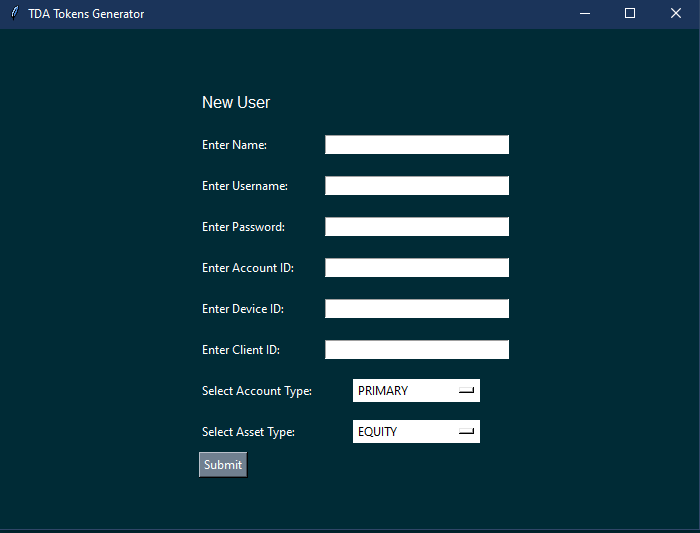
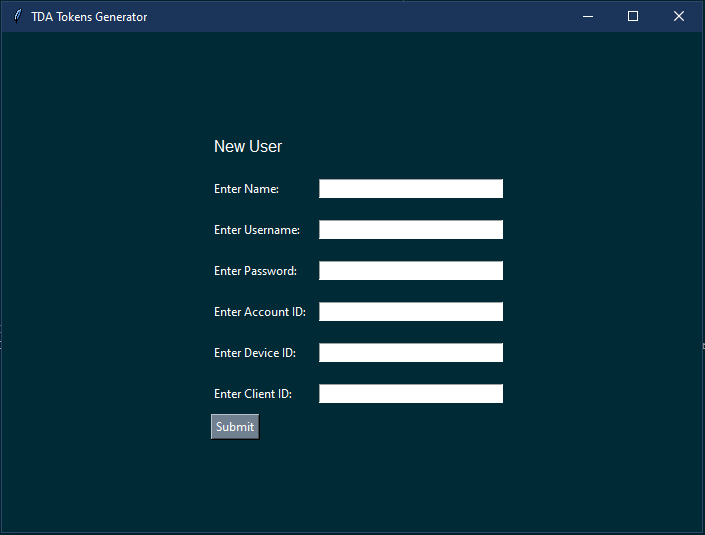
updated new user fields

diff --git a/README.md b/README.md
@@ -80,10 +80,6 @@
 
 - **Client ID** - This is the client id created when you create an app in the TDA Developers site here: https://developer.tdameritrade.com/apis. This is different than your TDAmeritrade account, and you will have to register. Once registered, login and you will see a tab that says My Apps. Click the tab, and click on the tab that says Add A New App. Once clicked, a page will load and will ask you for an App Name, Callback URL, and What is the purpose of this application. Name it whatever you want, the Callback url needs to be http://localhost:8080, and describe a purpose for the app. Then click the Create App button. Once you do that, go to where you can view all of your apps. Click on the app you just created, and click on the Keys tab. Look for the Consumer Key. That is your **Client ID**.
 
-- **Account Type** - Can be PRIMARY or SECONDARY. Technically, you can set this to more than just these two options. This seperates the accounts and each trade in the program. Basically, when you set the scanner names in Thinkorswim, you will append this value to the end of the scanner name, telling the program that the specific strategy is for either the PRIMARY or SECONDARY account.
-
-- **Asset Type** - Either EQUITY or OPTION for the specific account. This tells the program what this account should be trading.
-
 #### After Submission
 
 - After you submit the form for either Existing User or New User, you will be redirected to the page below:
